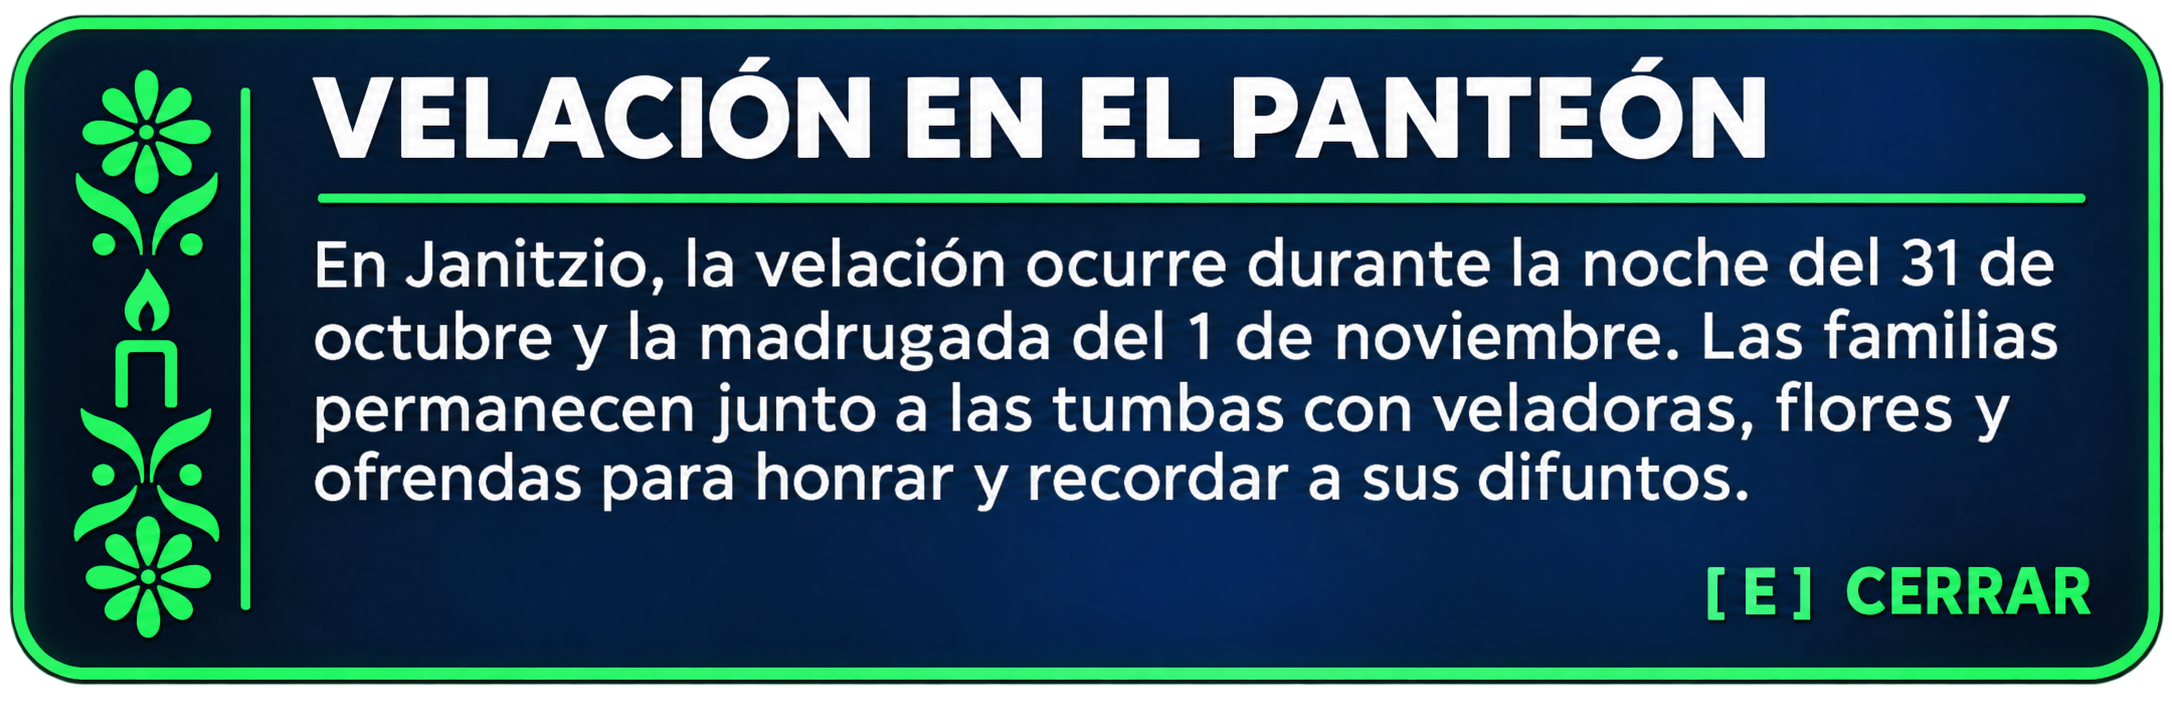
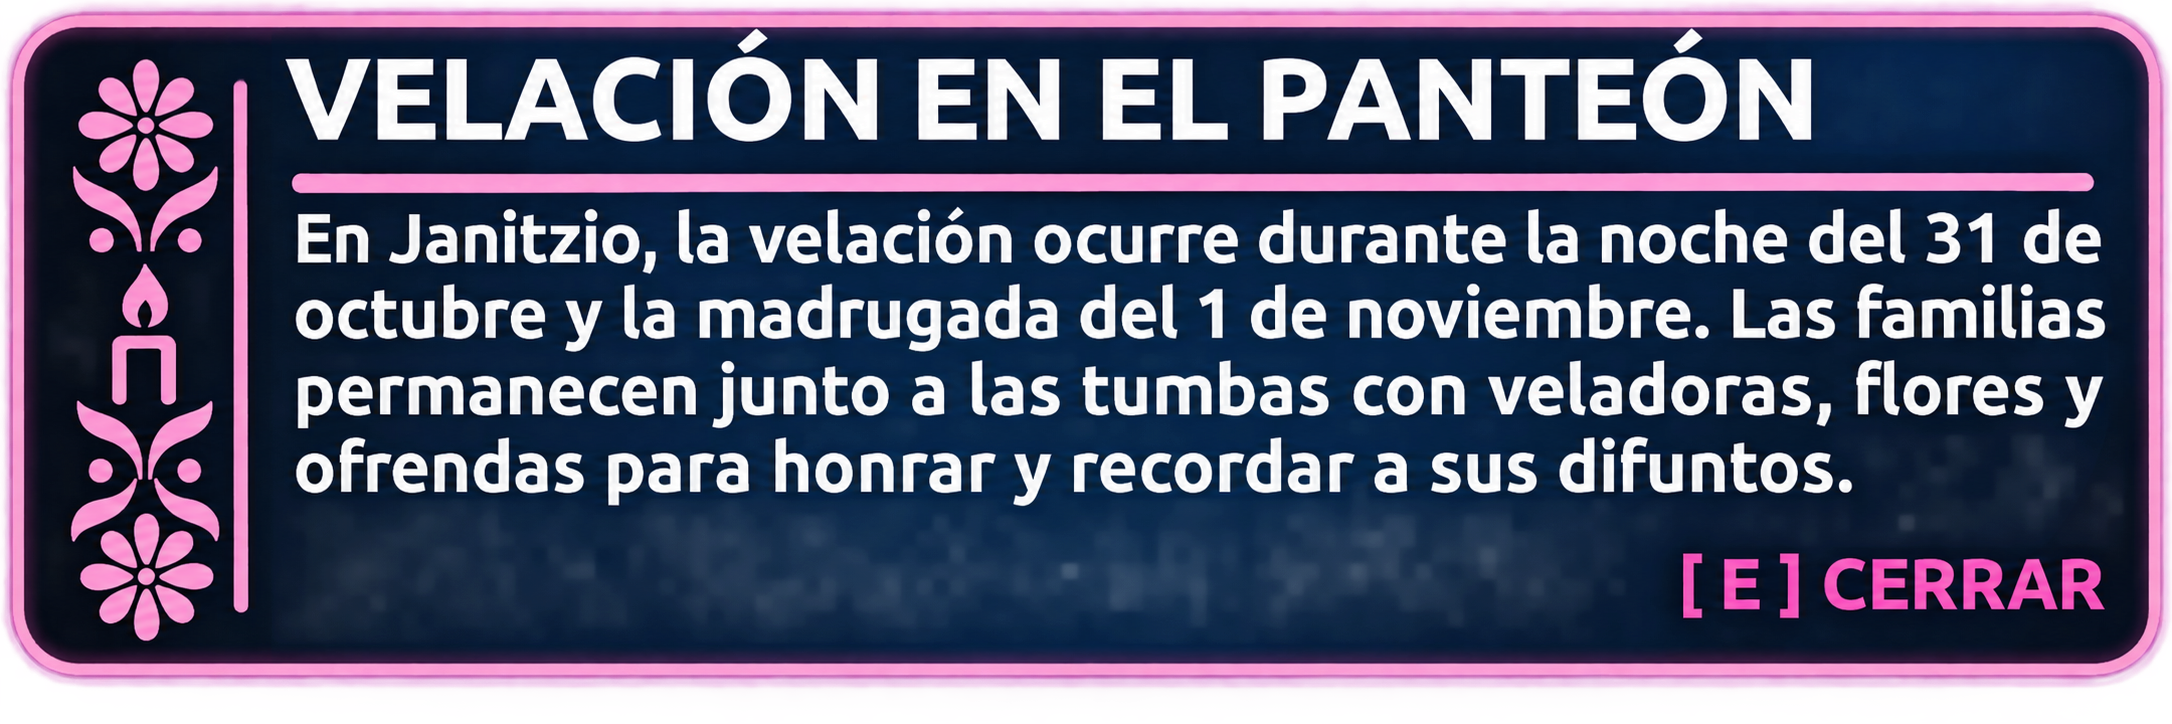
Ajustes Finales

diff --git a/proyectoFinal/src/main.cpp b/proyectoFinal/src/main.cpp
@@ -470,39 +470,35 @@ int main()
 		glUniform1f(glGetUniformLocation(lightingShader.Program, "pointLights[3].linear"), 0.50f);
 		glUniform1f(glGetUniformLocation(lightingShader.Program, "pointLights[3].quadratic"), 0.75f);
 
-		float flicker4 = 0.82f + 0.15f * sin(time * 2.1f + 0.5f) + 0.05f * sin(time * 5.0f);
-		float flicker5 = 0.84f + 0.14f * sin(time * 2.3f + 1.5f) + 0.05f * sin(time * 5.4f);
-		float flicker6 = 0.83f + 0.15f * sin(time * 2.0f + 2.5f) + 0.05f * sin(time * 4.8f);
-		float flicker7 = 0.84f + 0.14f * sin(time * 2.2f + 3.5f) + 0.05f * sin(time * 5.2f);
-
+		// Luces de las casas - fijas, tono blanco calido
 		glUniform3f(glGetUniformLocation(lightingShader.Program, "pointLights[4].position"), 1.096f, 1.8039f, -0.45079f);
-		glUniform3f(glGetUniformLocation(lightingShader.Program, "pointLights[4].ambient"), 0.03f * flicker4, 0.02f * flicker4, 0.01f * flicker4);
-		glUniform3f(glGetUniformLocation(lightingShader.Program, "pointLights[4].diffuse"), 0.52f * flicker4, 0.35f * flicker4, 0.14f * flicker4);
-		glUniform3f(glGetUniformLocation(lightingShader.Program, "pointLights[4].specular"), 0.25f, 0.20f, 0.10f);
+		glUniform3f(glGetUniformLocation(lightingShader.Program, "pointLights[4].ambient"), 0.055f, 0.055f, 0.050f);
+		glUniform3f(glGetUniformLocation(lightingShader.Program, "pointLights[4].diffuse"), 0.72f, 0.70f, 0.62f);
+		glUniform3f(glGetUniformLocation(lightingShader.Program, "pointLights[4].specular"), 0.32f, 0.31f, 0.28f);
 		glUniform1f(glGetUniformLocation(lightingShader.Program, "pointLights[4].constant"), 1.0f);
 		glUniform1f(glGetUniformLocation(lightingShader.Program, "pointLights[4].linear"), 0.18f);
 		glUniform1f(glGetUniformLocation(lightingShader.Program, "pointLights[4].quadratic"), 0.10f);
 
 		glUniform3f(glGetUniformLocation(lightingShader.Program, "pointLights[5].position"), 1.096f, 1.8039f, -2.5193f);
-		glUniform3f(glGetUniformLocation(lightingShader.Program, "pointLights[5].ambient"), 0.05f * flicker5, 0.03f * flicker5, 0.015f * flicker5);
-		glUniform3f(glGetUniformLocation(lightingShader.Program, "pointLights[5].diffuse"), 0.60f * flicker5, 0.40f * flicker5, 0.16f * flicker5);
-		glUniform3f(glGetUniformLocation(lightingShader.Program, "pointLights[5].specular"), 0.25f, 0.20f, 0.10f);
+		glUniform3f(glGetUniformLocation(lightingShader.Program, "pointLights[5].ambient"), 0.055f, 0.055f, 0.050f);
+		glUniform3f(glGetUniformLocation(lightingShader.Program, "pointLights[5].diffuse"), 0.72f, 0.70f, 0.62f);
+		glUniform3f(glGetUniformLocation(lightingShader.Program, "pointLights[5].specular"), 0.32f, 0.31f, 0.28f);
 		glUniform1f(glGetUniformLocation(lightingShader.Program, "pointLights[5].constant"), 1.0f);
 		glUniform1f(glGetUniformLocation(lightingShader.Program, "pointLights[5].linear"), 0.18f);
 		glUniform1f(glGetUniformLocation(lightingShader.Program, "pointLights[5].quadratic"), 0.10f);
 
 		glUniform3f(glGetUniformLocation(lightingShader.Program, "pointLights[6].position"), 6.1152f, 1.8039f, -1.3698f);
-		glUniform3f(glGetUniformLocation(lightingShader.Program, "pointLights[6].ambient"), 0.03f * flicker6, 0.02f * flicker6, 0.01f * flicker6);
-		glUniform3f(glGetUniformLocation(lightingShader.Program, "pointLights[6].diffuse"), 0.48f * flicker6, 0.32f * flicker6, 0.12f * flicker6);
-		glUniform3f(glGetUniformLocation(lightingShader.Program, "pointLights[6].specular"), 0.25f, 0.20f, 0.10f);
+		glUniform3f(glGetUniformLocation(lightingShader.Program, "pointLights[6].ambient"), 0.055f, 0.055f, 0.050f);
+		glUniform3f(glGetUniformLocation(lightingShader.Program, "pointLights[6].diffuse"), 0.72f, 0.70f, 0.62f);
+		glUniform3f(glGetUniformLocation(lightingShader.Program, "pointLights[6].specular"), 0.32f, 0.31f, 0.28f);
 		glUniform1f(glGetUniformLocation(lightingShader.Program, "pointLights[6].constant"), 1.0f);
 		glUniform1f(glGetUniformLocation(lightingShader.Program, "pointLights[6].linear"), 0.20f);
 		glUniform1f(glGetUniformLocation(lightingShader.Program, "pointLights[6].quadratic"), 0.12f);
 
 		glUniform3f(glGetUniformLocation(lightingShader.Program, "pointLights[7].position"), 6.1348f, 1.8039f, -3.5318f);
-		glUniform3f(glGetUniformLocation(lightingShader.Program, "pointLights[7].ambient"), 0.03f * flicker7, 0.02f * flicker7, 0.01f * flicker7);
-		glUniform3f(glGetUniformLocation(lightingShader.Program, "pointLights[7].diffuse"), 0.46f * flicker7, 0.30f * flicker7, 0.12f * flicker7);
-		glUniform3f(glGetUniformLocation(lightingShader.Program, "pointLights[7].specular"), 0.25f, 0.20f, 0.10f);
+		glUniform3f(glGetUniformLocation(lightingShader.Program, "pointLights[7].ambient"), 0.055f, 0.055f, 0.050f);
+		glUniform3f(glGetUniformLocation(lightingShader.Program, "pointLights[7].diffuse"), 0.72f, 0.70f, 0.62f);
+		glUniform3f(glGetUniformLocation(lightingShader.Program, "pointLights[7].specular"), 0.32f, 0.31f, 0.28f);
 		glUniform1f(glGetUniformLocation(lightingShader.Program, "pointLights[7].constant"), 1.0f);
 		glUniform1f(glGetUniformLocation(lightingShader.Program, "pointLights[7].linear"), 0.20f);
 		glUniform1f(glGetUniformLocation(lightingShader.Program, "pointLights[7].quadratic"), 0.12f);
